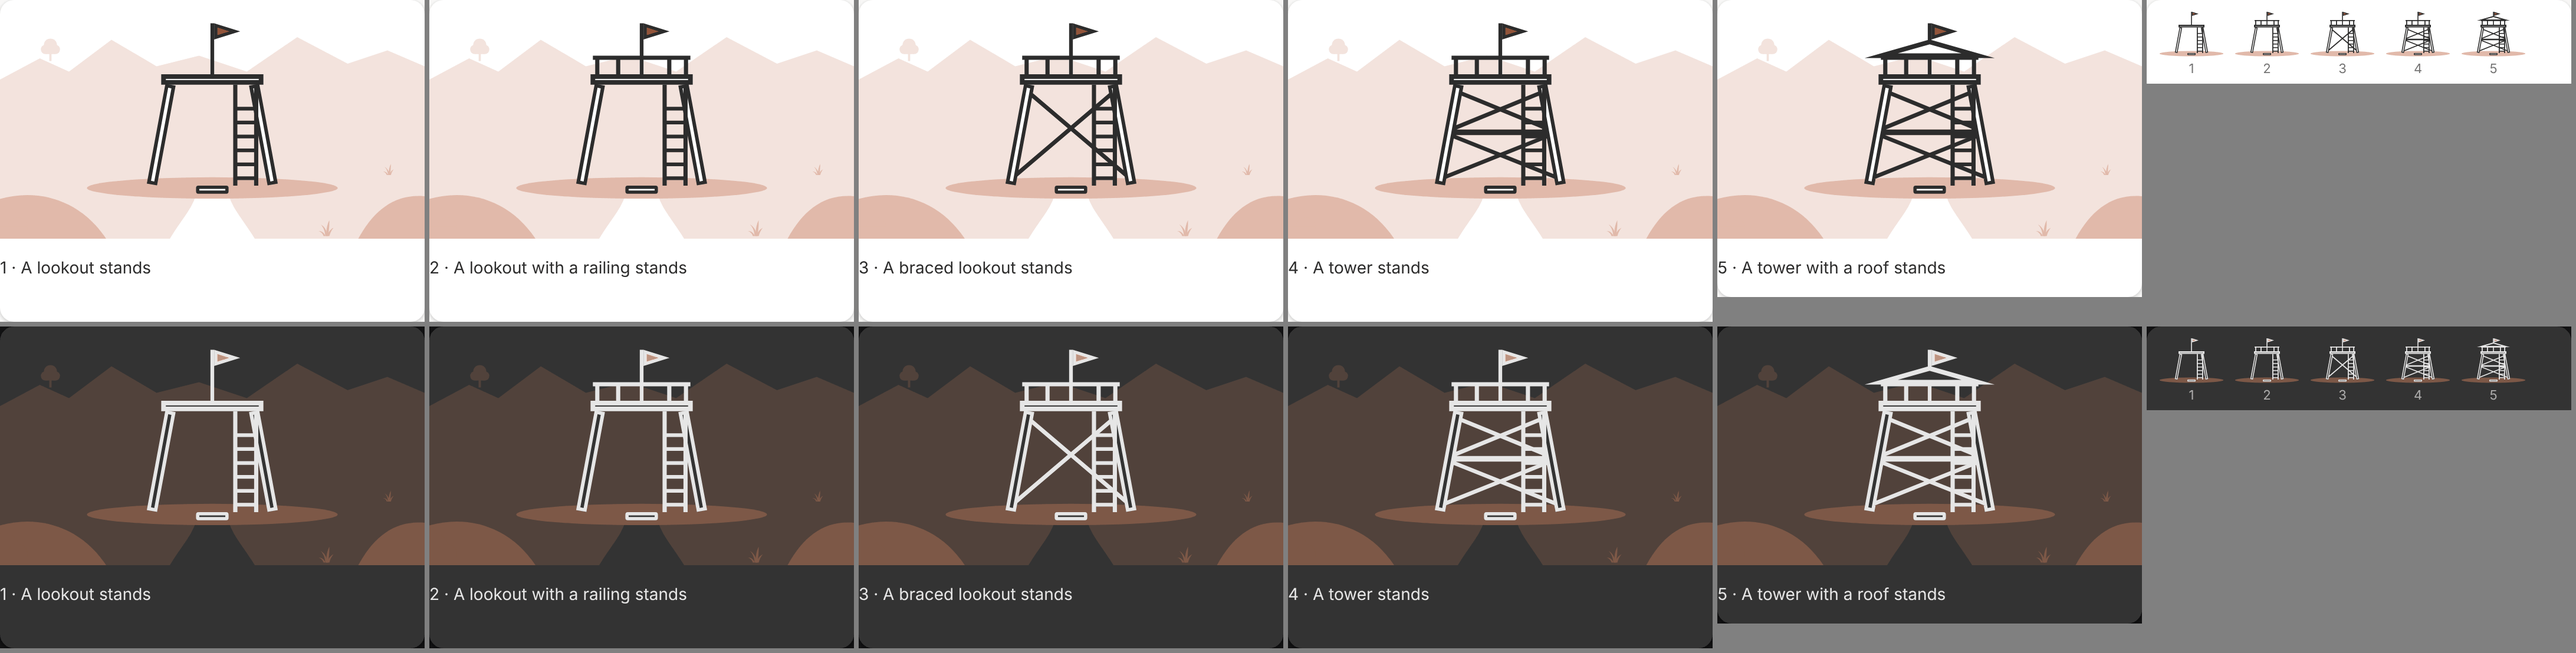
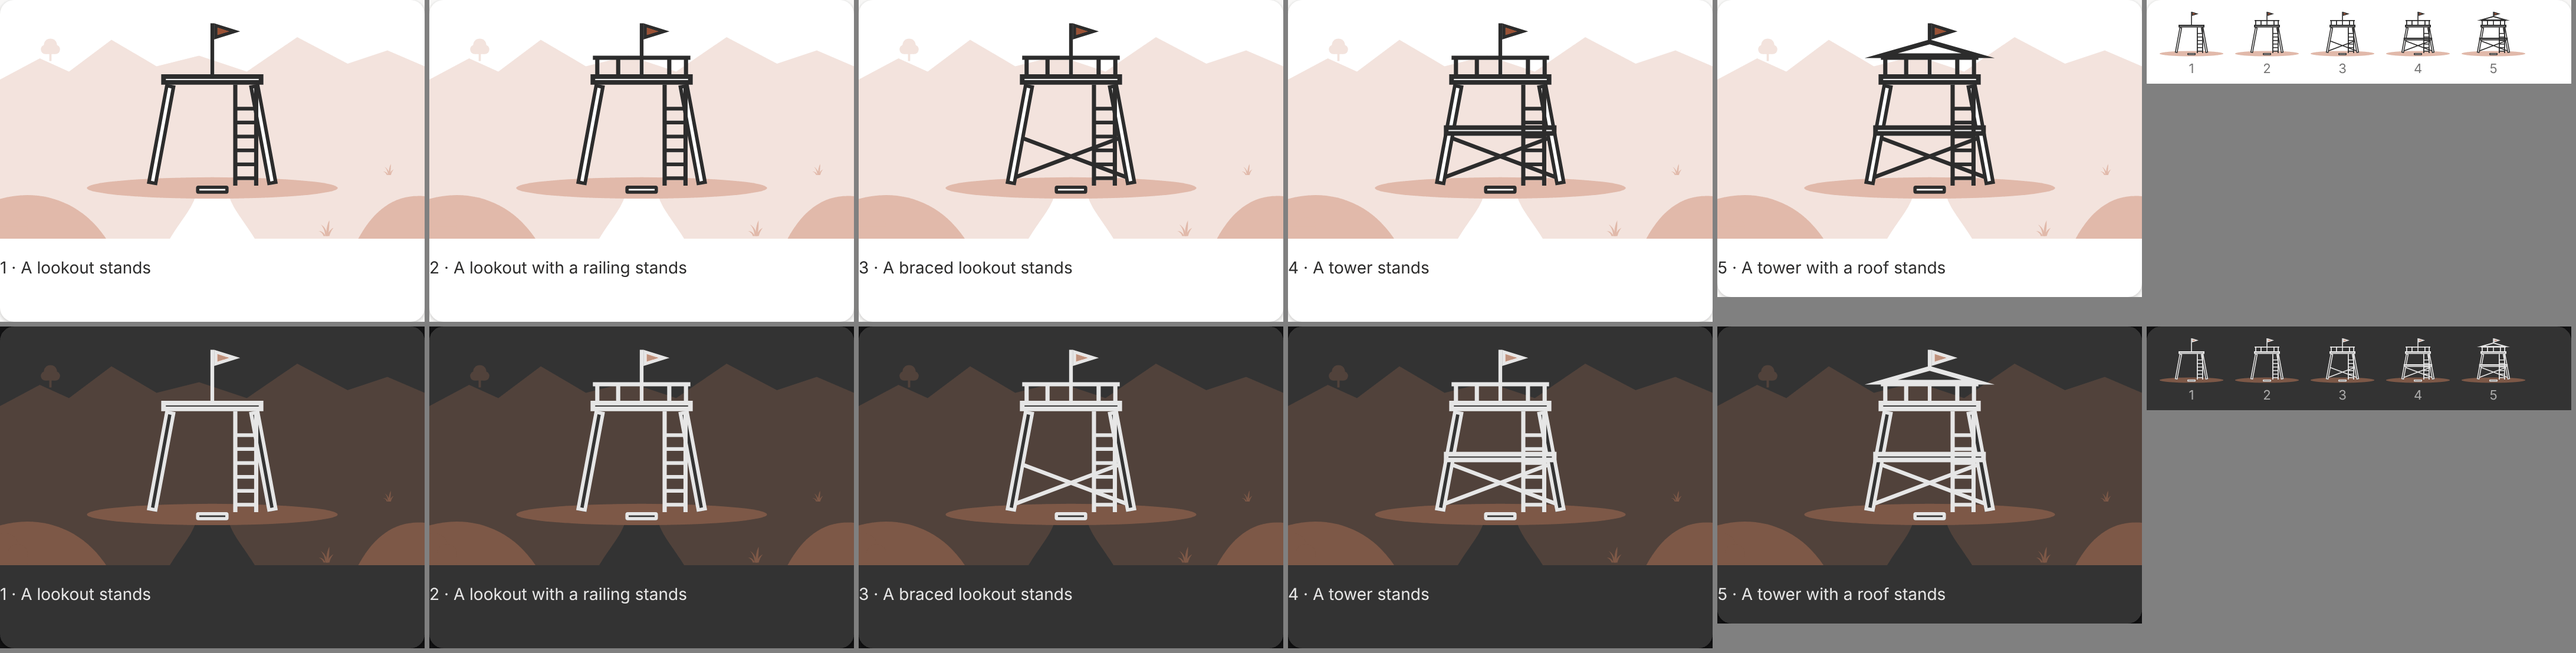
Art: Lookout adds a second level after its brace (#128)
At the owner's word: one cross brace and then two read as arbitrary.
Version 3 adds a cross brace in the lower part, version 4 a second
level resting on it, version 5 the roof.

Part of #128.

Claude-Session: https://claude.ai/code/session_019PsDpCdRYaLb9552fVk121

diff --git a/docs/log.md b/docs/log.md
@@ -2,7 +2,7 @@
 
 ## 2026-11-15
 
-- **Creation** (#128, Lookout): the ladder Lookout, drawn by `scripts/draw-ladders.mjs` once, version by version: one wooden lookout tower at one height from the start, getting better by what is added: two posts with a deck and a ladder, a railing, a cross brace, a second tier of braces with a crossbeam, a roof; the flag (the accent) stays on top. Its land setting `setting-heights` (far ridges with peaks, no water) shares Home's path and marker posts; default marker pennants, default hue rust; titles in English and German (Ausguck: Ein Ausguck, Ein Ausguck mit Geländer, Ein verstrebter Ausguck, Ein Turm, Ein Turm mit Dach). The measured checks pass (each addition covers at least 5 % more). Rounds with the owner: the issue's cairn under a platform had no job ("why the stones under it?"), so Lookout became one wooden tower that gets better; a tower whose deck rose with each version is dropped, because a built thing does not grow taller ([journey design](journey-design.md#builds-and-ladders-the-valley-42), `docs/screenshots/ladder-lookout*.png`).
+- **Creation** (#128, Lookout): the ladder Lookout, drawn by `scripts/draw-ladders.mjs` once, version by version: one wooden lookout tower at one height from the start, getting better by what is added: two posts with a deck and a ladder, a railing, a cross brace in the lower part, a second level resting on it, a roof; the flag (the accent) stays on top. Its land setting `setting-heights` (far ridges with peaks, no water) shares Home's path and marker posts; default marker pennants, default hue rust; titles in English and German (Ausguck: Ein Ausguck, Ein Ausguck mit Geländer, Ein verstrebter Ausguck, Ein Turm, Ein Turm mit Dach). The measured checks pass (each addition covers at least 5 % more). Rounds with the owner: the issue's cairn under a platform had no job ("why the stones under it?"), so Lookout became one wooden tower that gets better; a tower whose deck rose with each version is dropped, because a built thing does not grow taller; one cross brace and then two read as arbitrary, so a second level follows the brace ([journey design](journey-design.md#builds-and-ladders-the-valley-42), `docs/screenshots/ladder-lookout*.png`).
 - **Update** (#135, decided by the owner): Garden follows the history rule. The greenhouse is a different technique, so it is parked like the hand pump (rule 8 in [journey design](journey-design.md#builds-and-ladders-the-valley-42), comment on #114); version 4 is an orchard of five fruit trees behind the hedge, version 5 a walled garden: the orchard and beds inside a wall of stones at shoulder height, the trees and plants rising over it, its gate on the threshold stone (titles An orchard / Ein Obstgarten, A walled garden / Ein ummauerter Garten). The measured rules of #136 caught two faults on the way: a plant in the gate covered the threshold stone, and a lower wall made version 5 cover less than 5 % more than the orchard. The generator now also refuses a picture above 4 KB: a first orchard was 4,297 bytes and was written unnoticed ([decision](decisions/ladder-geometry.md)). Checked at 360 × 720 and in the row at 60 × 40, light and dark: a plant inside the gate read as a keyhole and was dropped. Then the owner saw the fruit trees' crowns floating like balls over the hedge and the wall: every tree now stands on a trunk, in a row of five, the trunks ending behind the hedge or wall. The owner then saw the trees jump (one in the middle, one on the right, suddenly five): they now grow from the middle, where the sunflower stood, one in version 3, three in version 4, five in version 5, each keeping its place; at the owner's word they also grow with the garden: a tree is young with one fruit when planted, grown with two a version later, old with three after that, so the first tree is the largest. Last, the owner saw versions 2 to 3 replace things instead of growing them (the sunflower and the back row gone, the plants smaller): Garden is now drawn by one function, version by version, so nothing moves, shrinks or disappears: the bed with the sunflower (1), a bed on each side (2), a hedge and two young trees beside the sunflower (3), those grown and two young ones further out (4), a low wall of stones with its gate (5); titles A row of beds / Eine Reihe von Beeten and A garden with fruit trees / Ein Garten mit Obstbäumen. To fit 4 KB, runs of plain shapes in one role are written as one path and straight runs as steps along one axis; no other picture changed (pixel comparison against `main`). The measuring now reads arcs and no longer lets rings of opposite direction cancel each other ([decision](decisions/ladder-geometry.md)). Then, at the owner's word, the sunflower went: Garden is drawn from elements with states, each entering at its smallest state and growing one state per version (plants seedling → grown → ripe, a stake bare → climber → ripe, trees sapling → young → grown → old, the hedge low → full), and the fruit, shown only on what is ripe, is the one accent. Choosing what grows at a place is #138 (sub-issue of #114).
 - **Decision** (owner): ladder pictures are built with a geometry library and measured ([decision](decisions/ladder-geometry.md)). `clipper2-ts` 2.0.1 (BSL-1.0, development only, [dependencies](dependencies.md)) builds outlines by offsetting, the well house's cut-out by subtraction and the stonework clipped to its wall (`scripts/ladder-geometry.mjs`); `scripts/ladder-checks.mjs` measures every version before `scripts/draw-ladders.mjs` writes (inside the box, at least 5 % more area than the one before, the threshold stone free), and `packages/engine/test/art-geometry.test.ts` measures the committed pictures. A pixel comparison at four times the build size showed no visible change except the well house's stones, which now stop exactly at the arch, and the checks' first findings, now fixed: Garden 5's hedge reached past the box, Well 1's front stones below the base line. Crossing (retired by #128) is only warned about: its plank bridge covers 1 % more than the log ([journey design](journey-design.md#builds-and-ladders-the-valley-42)).
 - **Creation** (#128, Well): the ladder Well, drawn by `scripts/draw-ladders.mjs`: a water hole with its heap of earth and spade, a well sweep over a low stone curb, a round well with a winch, the well under a roof, a stone well house with the well under its arch; each whole and larger than the one before, on Home's threshold stone. Water in the builds is `tint-strong`; the accent is the bucket. Its land setting `setting-green` (a village green: a far ridge with roofs, no water) shares Home's path and marker posts; default marker lanterns, default hue water blue; titles in English and German. Checked at 360 × 720 and in the row at 60 × 40, light and dark: the well wall read as a crate and now has a round rim around its water. The fifth version was first a fountain; the owner rejected it (a fountain is another use than a well), so it is a well house: a closed house with a door read as a second Home house and a low arch as a garage, so its arch is tall and wide; the owner then saw the well standing in front of the house, so it is smaller, set back on the floor of a shaded arch, and the front wall is drawn over it with the arch cut out; then the owner found the stones no longer read as stones, so every stone wall (the well in versions 3 to 5, the well house's whole front wall, whose courses stop at the arch's curve) is drawn as courses of stones with staggered joints (`masonry`); last, the owner found the line broken (versions 1 and 2 were a spring and a trough under a pump, and a pump comes after a dug well): the ladder now follows how water is drawn from a dug well, from a water hole to a well sweep, a winch, a roof and a well house. **Decision** (owner): a ladder follows history step by step (rule 8 in [journey design](journey-design.md#builds-and-ladders-the-valley-42)); a new technique joining what stands (a hand pump at the well house) and several things at one place stay parked (comment on #114) ([journey design](journey-design.md#builds-and-ladders-the-valley-42), `docs/screenshots/ladder-well*.png`). Lookout follows after the owner's judgement.

diff --git a/docs/journey-design.md b/docs/journey-design.md
@@ -193,8 +193,8 @@ journey):
    break the line, a fountain is another use). Lookout is one wooden
    lookout tower at one height from the start (a built thing does not
    grow taller, owner): two posts with a deck and a ladder, then a
-   railing, a cross brace, a second tier of braces with a crossbeam, a
-   roof; the flag, the accent, stays on top.
+   railing, a cross brace in the lower part, a second level resting on
+   it, a roof; the flag, the accent, stays on top.
 8. **History, step by step** (owner, 2026-11-15). A ladder follows one
    real line of development for one use; each version is what people
    actually built next, within a world before electricity, so the row
